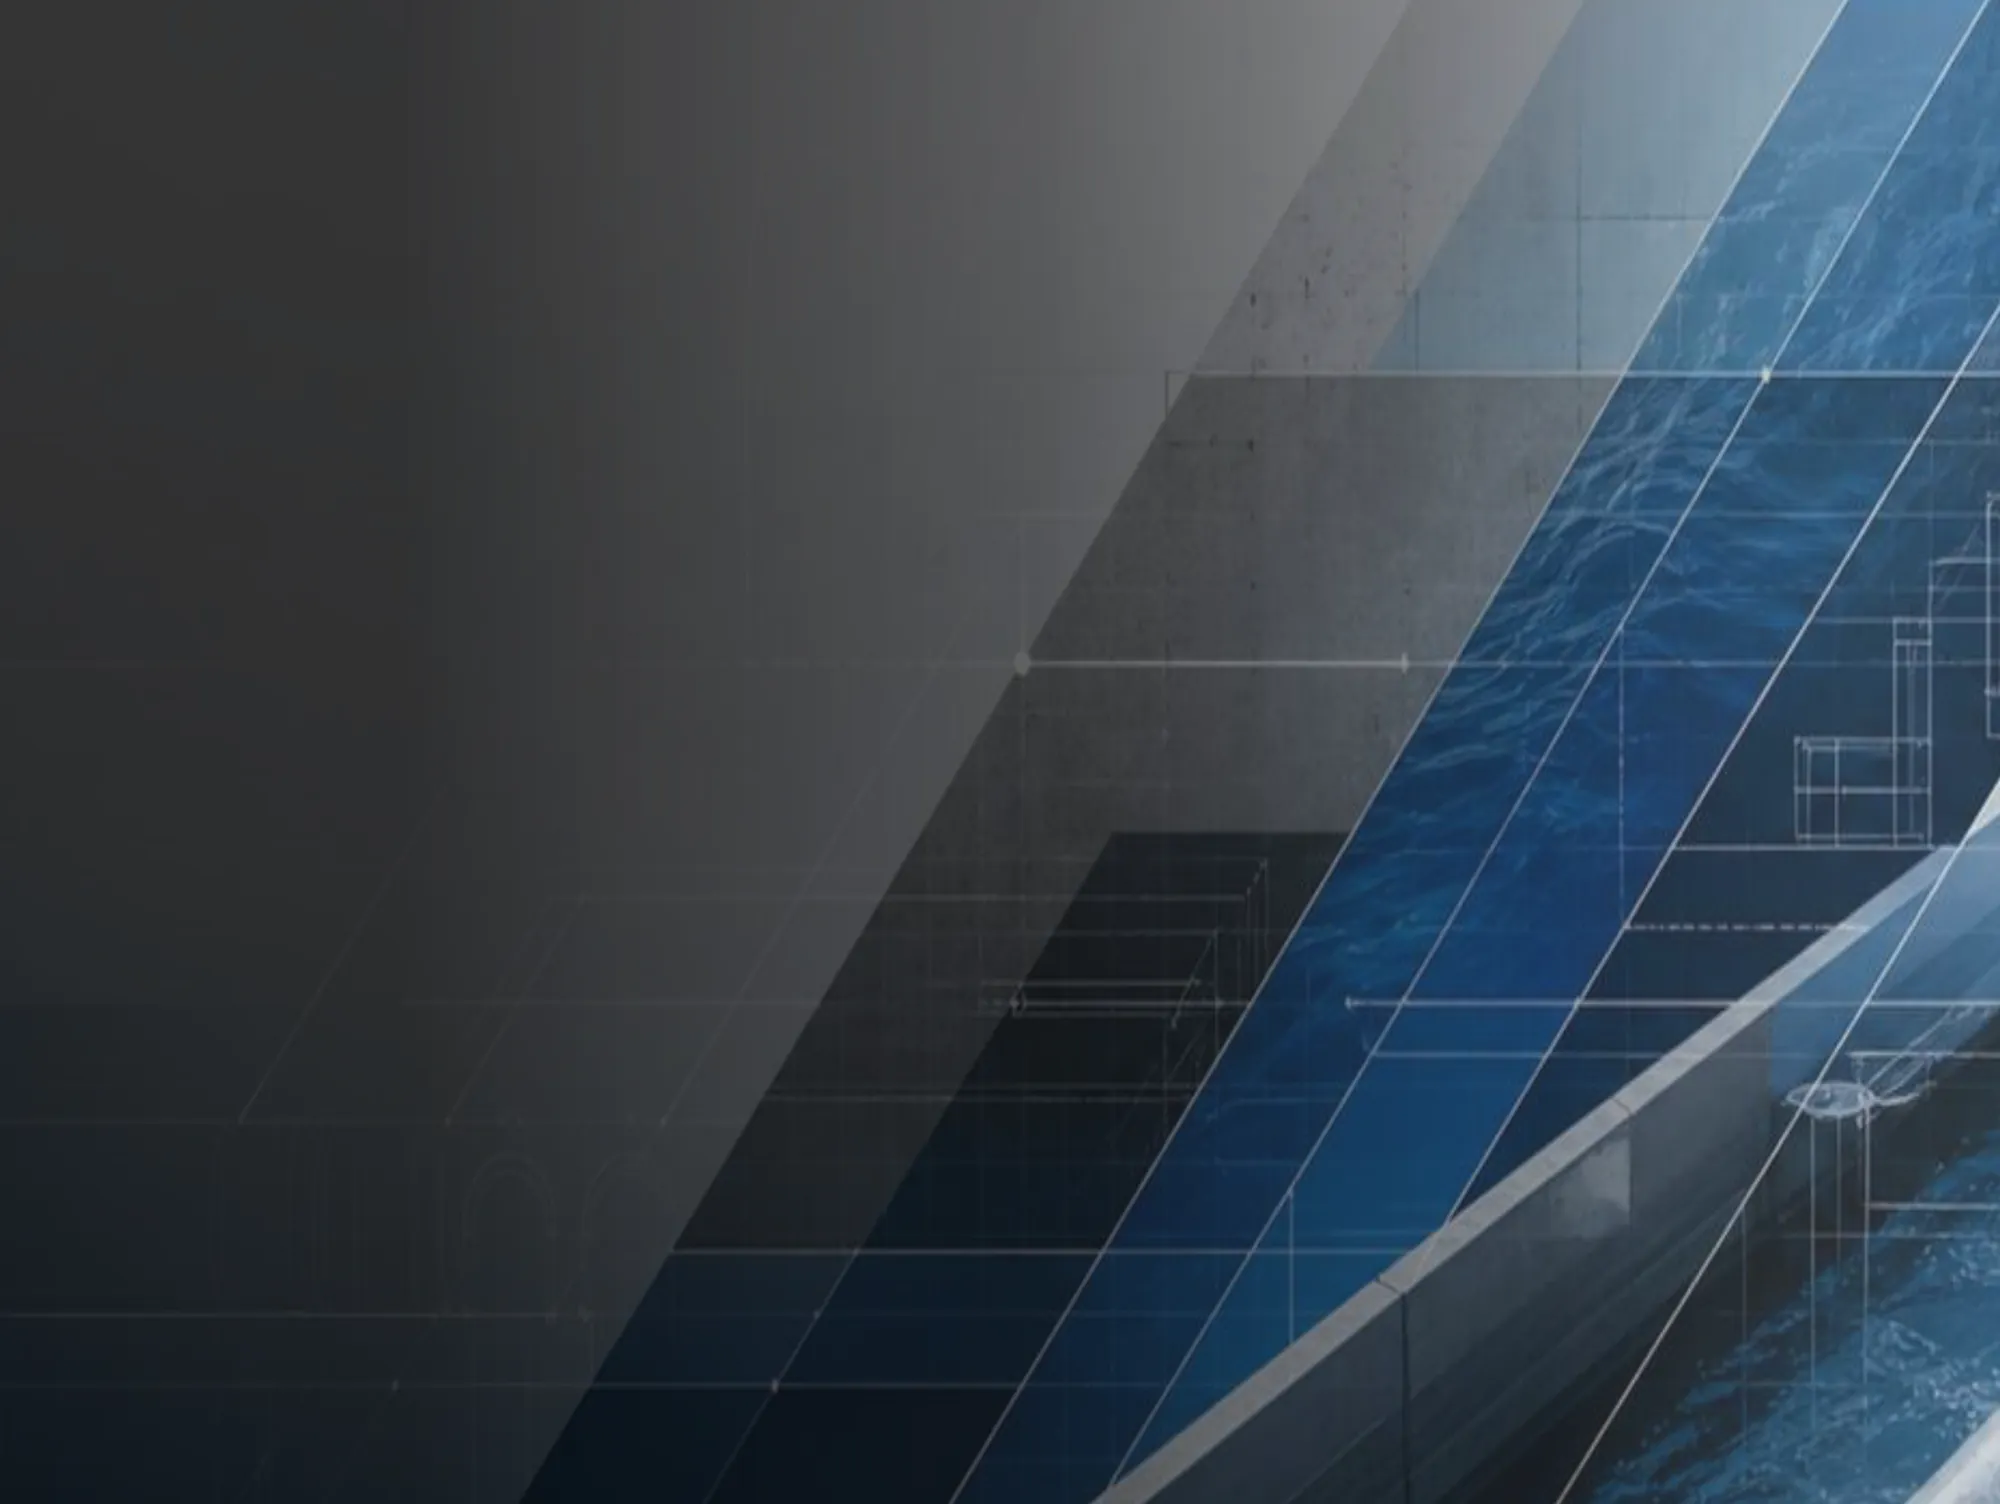
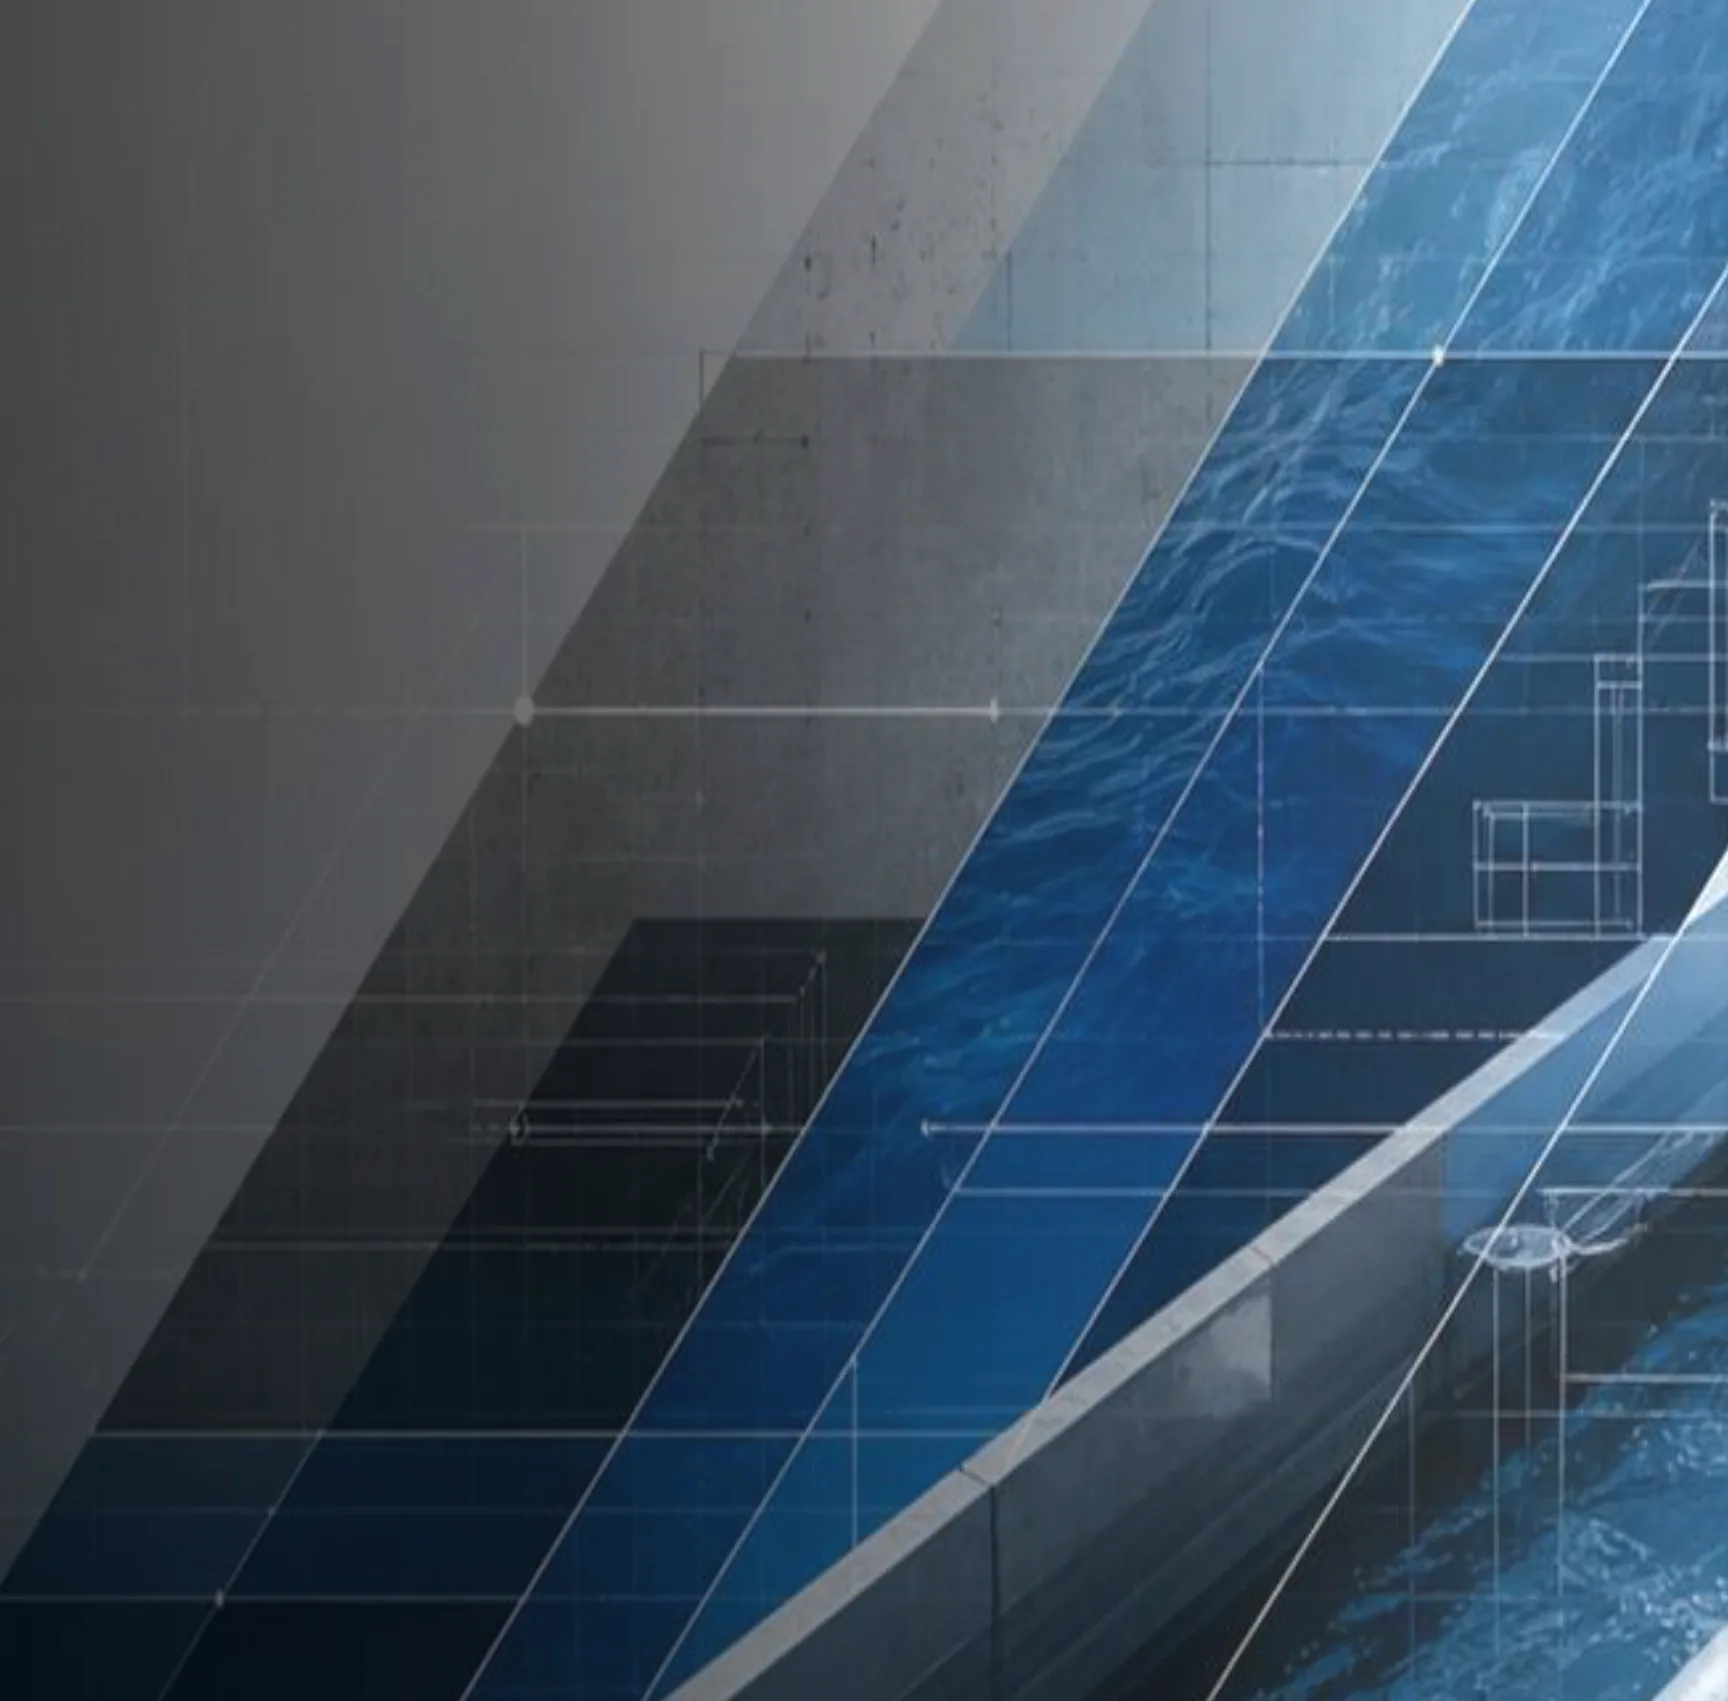
Ajustes do cliente: hero recortado na área legível (barragem/água) c/ overlay mais claro; remove faixa editorial; FAQ na largura padrão das seções

diff --git a/Site/css/styles.css b/Site/css/styles.css
@@ -9,7 +9,7 @@
   --ink:#0A1826; --paper:#FFFFFF; --gray-50:#F5F8FA; --gray-100:#EDF2F6;
   --gray-300:#C6D2DC; --gray-500:#5C6D7F; --gray-700:#3A4B5C;
   --gradient-accent:linear-gradient(120deg,#0060B0 0%,#1478D2 100%);
-  --gradient-hero:linear-gradient(100deg,rgba(6,16,28,.93) 32%,rgba(6,16,28,.55) 68%,rgba(0,86,160,.35) 100%);
+  --gradient-hero:linear-gradient(100deg,rgba(6,16,28,.92) 30%,rgba(6,16,28,.45) 62%,rgba(6,16,28,.10) 100%);
   --font-display:'Archivo',system-ui,sans-serif;
   --font-body:'Inter',system-ui,sans-serif;
   --shadow-sm:0 1px 3px rgba(10,24,38,.10);
@@ -121,13 +121,6 @@ p strong,.lede strong{color:var(--ink)}
 .result-band svg{color:var(--blue-400);flex:none}
 .result-band p{flex:1;min-width:260px;font-size:15px;color:var(--navy-100)}
 
-/* ---------- Faixa editorial ---------- */
-.editorial-break{position:relative;min-height:270px;overflow:hidden;display:flex;align-items:center;background:var(--navy-950)}
-.editorial-break img{position:absolute;top:-15%;left:0;width:100%;height:130%;object-fit:cover;object-position:center;z-index:0}
-.editorial-break::after{content:"";position:absolute;inset:0;background:linear-gradient(100deg,rgba(6,16,28,.88) 20%,rgba(6,16,28,.6) 100%);z-index:1}
-.editorial-inner{position:relative;z-index:2;color:#fff;padding-top:48px;padding-bottom:48px}
-.editorial-line{font-family:var(--font-display);font-weight:700;font-size:clamp(18px,2.3vw,25px);line-height:1.35;max-width:700px;text-wrap:balance}
-
 /* ---------- Stats ---------- */
 .stats-grid{display:grid;grid-template-columns:repeat(5,1fr);gap:14px}
 .stat{background:var(--gray-50);border:1px solid var(--gray-100);border-left:3px solid var(--blue-600);border-radius:var(--radius);padding:16px 15px;transition:transform var(--t-base),box-shadow var(--t-base)}
@@ -164,7 +157,7 @@ p strong,.lede strong{color:var(--ink)}
 .ecard p{font-size:13.5px;color:var(--gray-500)}
 
 /* ---------- FAQ ---------- */
-.faq-list{max-width:820px;margin:0 auto;background:#fff;border:1px solid var(--gray-100);border-radius:var(--radius-lg);overflow:hidden}
+.faq-list{background:#fff;border:1px solid var(--gray-100);border-radius:var(--radius-lg);overflow:hidden}
 .faq-item+.faq-item{border-top:1px solid var(--gray-100)}
 .faq-q{width:100%;text-align:left;background:none;border:none;padding:16px 20px;font-family:var(--font-body);font-size:15px;font-weight:600;color:var(--ink);cursor:pointer;display:flex;justify-content:space-between;align-items:center;gap:16px;transition:background var(--t-fast)}
 .faq-q:hover{background:var(--gray-50)}
@@ -271,7 +264,6 @@ p strong,.lede strong{color:var(--ink)}
   .cta-content{padding:64px 24px}
   .footer-inner{grid-template-columns:1fr 1fr}
   .svc{flex-wrap:wrap}
-  .editorial-break{min-height:220px}
 }
 @media (max-width:560px){
   .section{padding:44px 0}

diff --git a/Site/index.html b/Site/index.html
@@ -140,15 +140,6 @@
   </div>
 </section>
 
-<!-- Faixa editorial -->
-<section class="editorial-break" data-parallax="0.12">
-  <img src="assets/img/banda.webp" alt="" aria-hidden="true">
-  <div class="container editorial-inner" data-reveal>
-    <p class="overline overline-hero">Entrega integrada</p>
-    <p class="editorial-line">Do estudo técnico ao projeto executivo — projetos claros, compatíveis e prontos para contratação de obras.</p>
-  </div>
-</section>
-
 <!-- 4. EXPERIÊNCIA -->
 <section class="section" id="experiencia">
   <div class="container">
@@ -296,7 +287,7 @@
 <!-- 7. FAQ -->
 <section class="section section-alt" id="faq">
   <div class="container">
-    <div class="section-head section-head-center" data-reveal>
+    <div class="section-head" data-reveal>
       <p class="overline">Dúvidas frequentes</p>
       <h2>Perguntas e respostas</h2>
     </div>
